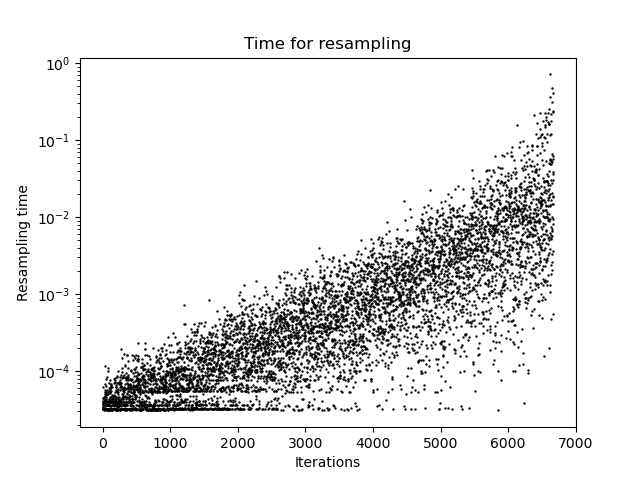
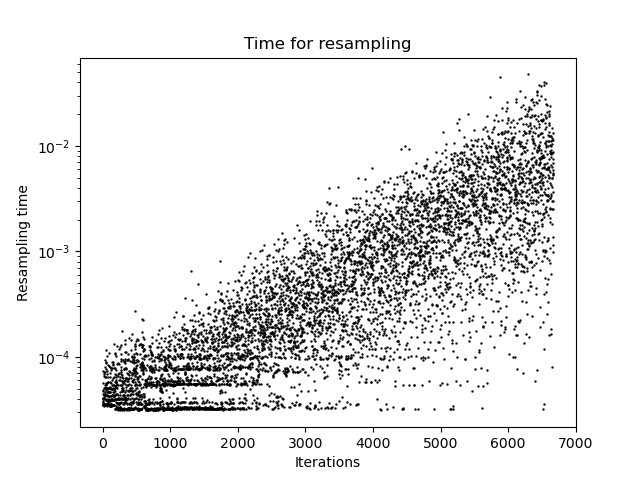
adjusted normal proposal

diff --git a/nested_sampling.py b/nested_sampling.py
@@ -142,7 +142,7 @@ def normal_proposal(x, dim, logLmin, survivor, std):
             if new_line[dim+1] > logLmin:
                 n += 1
                 accepted += 1
-                new_line[:dim] = survivor[:dim]
+                survivor[:dim] = new_line[:dim]
                 if n == dim:
                     end = time.time()
                     return new_line, (end-start), accepted, rejected
@@ -164,14 +164,14 @@ def nested_samplig(live_points, dim, resample_function=uniform_proposal, verbose
     max_log_l = dim*np.log(2*boundary) - 0.5*dim*np.log(2*np.pi)
 
     steps = 0
-    multiplier_steps = 0; multiplier = 5
+    multiplier_steps = 0; multiplier = 6
     accepted = 0
     rejected = 0
     while True:
         steps += 1
         multiplier_steps += 1
         if multiplier_steps > 170:
-            multiplier -= 0.10
+            multiplier -= 0.1
             multiplier_steps = 0
         if multiplier < 0.1:
             multiplier = 0.1
@@ -282,10 +282,6 @@ if __name__ == "__main__":
                     \n Proposal chosen: {prop}
                     \n Last area value = {area_plot[-1]:.2f}
                     \n Last worst Likelihood = {likelihood_worst[-1]}''')
-            #if args.proposal == 0:
-                #file.write(f'\n Manual shrinkage of the prior domain = {shrink:.2f}')
-            #if args.proposal == 1:
-                #file.write(f'\n Manual shrinkage of the proposal std = {shrink:.2f}')
             file.write(f'''\n Accepted and rejected points: {acc}, {rej}
                     \n Mass prior sum = {np.exp(prior_mass).sum():.2f}
                     \n Total time: {end-start:.2f} s
